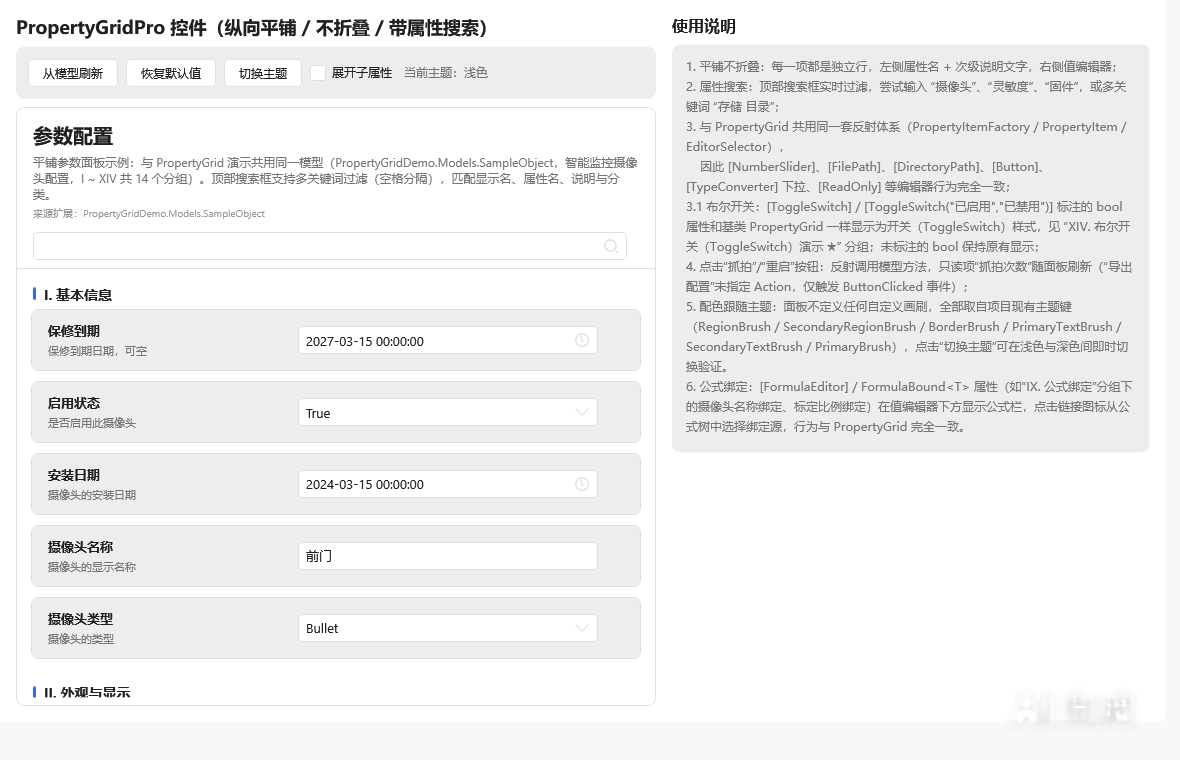
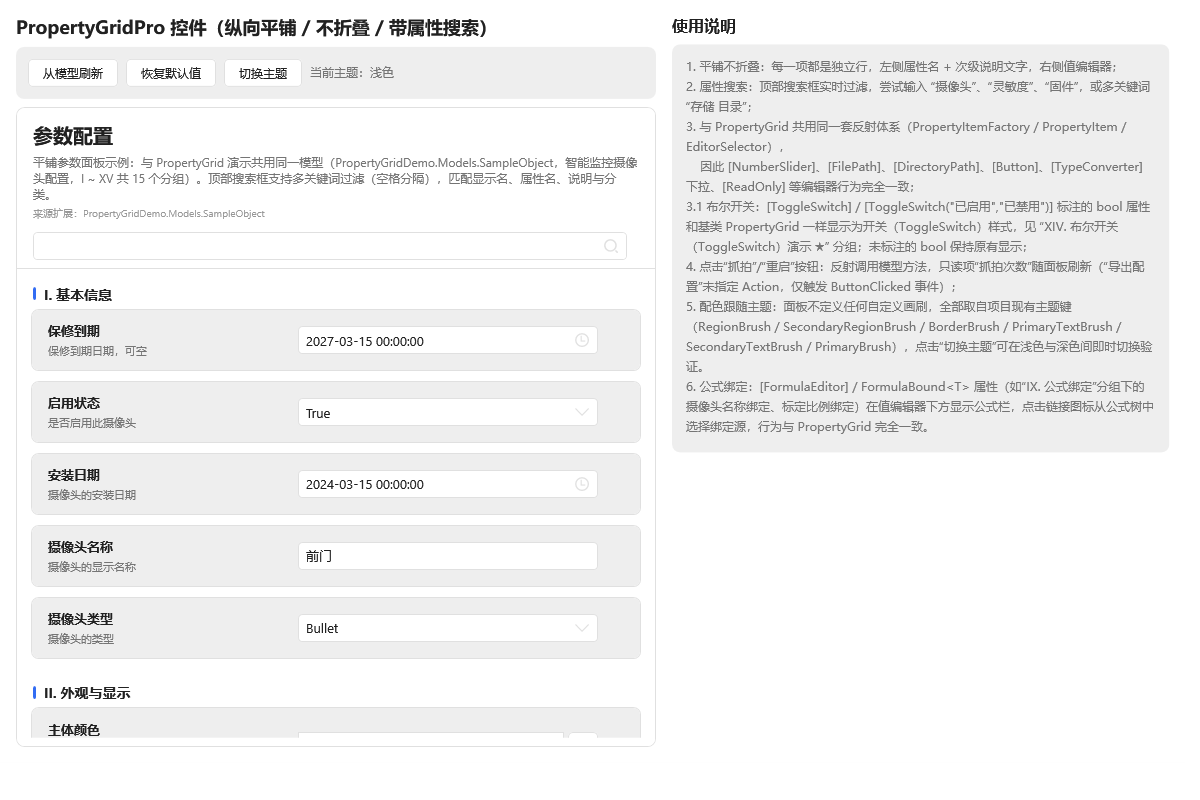
docs(images): 用 RenderTargetBitmap 离屏重渲文档配图(去水印), 新增 --shots 截图模式

diff --git a/App.xaml b/App.xaml
@@ -3,8 +3,7 @@
              xmlns:x="http://schemas.microsoft.com/winfx/2006/xaml"
              xmlns:hc="https://handyorg.github.io/handycontrol"
              xmlns:local="clr-namespace:PropertyGridDemo.Models"
-             xmlns:conv="clr-namespace:PropertyGridLib.Converters;assembly=PropertyGridLib"
-             StartupUri="MainWindow.xaml">
+             xmlns:conv="clr-namespace:PropertyGridLib.Converters;assembly=PropertyGridLib">
     <Application.Resources>
         <ResourceDictionary>
             <ResourceDictionary.MergedDictionaries>

diff --git a/ShotService.cs b/ShotService.cs
@@ -1,0 +1,283 @@
+using System;
+using System.ComponentModel;
+using System.IO;
+using System.Windows;
+using System.Windows.Media;
+using System.Windows.Media.Imaging;
+using System.Windows.Threading;
+using HandyControl.Data;
+using PropertyGridLib;
+using PropertyGridLib.Controls;
+using PropertyGridDemo.Models;
+
+namespace PropertyGridDemo
+{
+    /// <summary>
+    /// 离屏截图工具：以命令行 --shots &lt;目录&gt; 触发，用 RenderTargetBitmap 把真实控件渲染成 PNG，
+    /// 生成文档配图（零水印、可控尺寸、明暗主题）。仅 Demo 侧使用，不参与发布包。
+    /// </summary>
+    public static class ShotService
+    {
+        private static string _dir;
+
+        public static void Run(string outDir)
+        {
+            _dir = outDir;
+            Directory.CreateDirectory(outDir);
+            // 截图期间逐个 Show/Close 窗口，避免默认 OnLastWindowClose 触发应用关闭
+            Application.Current.ShutdownMode = ShutdownMode.OnExplicitShutdown;
+            var dispatcher = Application.Current.Dispatcher;
+
+            // ===== 浅色 =====
+            ThemeHelper.Apply(SkinType.Default);
+
+            TryShot("propertygrid-main-light", () =>
+            {
+                var w = NewMainWindow();
+                {
+                    Show(w, 1240, 820);
+                    Save(w, "propertygrid-main-light");
+                    w.Close();
+                }
+            });
+
+            TryShot("pro-overview-light", () =>
+            {
+                var w = NewProWindow();
+                {
+                    Show(w, 1200, 800);
+                    Save(w, "pro-overview-light");
+                    w.Close();
+                }
+            });
+
+            TryShot("pro-card-layout-detail", () =>
+            {
+                var w = NewProWindow();
+                {
+                    Show(w, 1200, 800);
+                    var g = Find(w, "proGrid");
+                    if (g != null) SaveElementCrop(g, 0, 192, 0, 400, "pro-card-layout-detail");
+                    w.Close();
+                }
+            });
+
+            TryShot("toggle-switch-area-light", () =>
+            {
+                var w = NewProWindow();
+                {
+                    Show(w, 1200, 800);
+                    var g = Find(w, "proGrid");
+                    if (g != null)
+                    {
+                        g.SearchText = "开关";
+                        w.UpdateLayout();
+                        dispatcher.Invoke(() => { }, DispatcherPriority.Render);
+                        SaveElementCrop(g, 0, 192, 0, 400, "toggle-switch-area-light");
+                    }
+                    w.Close();
+                }
+            });
+
+            TryShot("pro-search-multi-light", () =>
+            {
+                var w = NewProWindow();
+                {
+                    Show(w, 1200, 800);
+                    var g = Find(w, "proGrid");
+                    if (g != null)
+                    {
+                        g.SearchText = "摄像";
+                        w.UpdateLayout();
+                        dispatcher.Invoke(() => { }, DispatcherPriority.Render);
+                        SaveElementCrop(g, 0, 192, 0, 400, "pro-search-multi-light");
+                    }
+                    w.Close();
+                }
+            });
+
+            TryShot("pro-nested-4level-light", () =>
+            {
+                var w = NewProWindow();
+                {
+                    Show(w, 1200, 800);
+                    var g = Find(w, "proGrid");
+                    if (g != null)
+                    {
+                        g.HeaderDescription = "4 层嵌套子属性示例：展开后逐级缩进";
+                        g.SourceText = "来源扩展：NestZone";
+                        g.SelectedObject = new NestZone();
+                        g.SetSubPropertiesExpanded(true);
+                        w.UpdateLayout();
+                        dispatcher.Invoke(() => { }, DispatcherPriority.Render);
+                        SaveElementCrop(g, 0, 192, 0, 540, "pro-nested-4level-light");
+                    }
+                    w.Close();
+                }
+            });
+
+            TryShot("reset-button-base-light", () =>
+            {
+                var w = NewMainWindow();
+                {
+                    Show(w, 1240, 820);
+                    var grid = LogicalTreeHelper.FindLogicalNode(w, "propertyGrid") as PropertyGrid;
+                    if (grid != null)
+                    {
+                        ModifyOne(grid, "启用状态", false);
+                        ModifyOne(grid, "摄像头名称", "后堂");
+                        w.UpdateLayout();
+                        dispatcher.Invoke(() => { }, DispatcherPriority.Render);
+                        SaveElementCrop(grid, 0, 140, 0, 460, "reset-button-base-light");
+                    }
+                    w.Close();
+                }
+            });
+
+            // ===== 深色 =====
+            ThemeHelper.Apply(SkinType.Dark);
+
+            TryShot("propertygrid-main-dark", () =>
+            {
+                var w = NewMainWindow();
+                { Show(w, 1240, 820); Save(w, "propertygrid-main-dark"); w.Close(); }
+            });
+
+            TryShot("pro-overview-dark", () =>
+            {
+                var w = NewProWindow();
+                { Show(w, 1200, 800); Save(w, "pro-overview-dark"); w.Close(); }
+            });
+
+            ThemeHelper.Apply(SkinType.Default);
+            Log("SHOT_DONE");
+        }
+
+        // ---------- 窗体构造 ----------
+        private static MainWindow NewMainWindow()
+        {
+            var w = new MainWindow();
+            w.WindowState = WindowState.Normal;
+            return w;
+        }
+
+        private static PropertyGridProDemoWindow NewProWindow()
+        {
+            return new PropertyGridProDemoWindow();
+        }
+
+        private static PropertyGridPro Find(Window w, string name)
+        {
+            return LogicalTreeHelper.FindLogicalNode(w, name) as PropertyGridPro;
+        }
+
+        // 把指定显示名的属性改为非初始值，使行内“R”重置按钮常显
+        private static void ModifyOne(PropertyGrid grid, string displayName, object newVal)
+        {
+            if (!(grid.GroupedCategories is System.Collections.Generic.IEnumerable<PropertyCategory> cats)) return;
+            foreach (var c in cats)
+                foreach (var it in c.Items)
+                    if (it is PropertyItem pi && pi.DisplayName == displayName)
+                    {
+                        try { pi.Value = newVal; } catch { }
+                        return;
+                    }
+        }
+
+        // ---------- 显示并等待渲染 ----------
+        private static void Show(Window w, double width, double height)
+        {
+            w.WindowStartupLocation = WindowStartupLocation.Manual;
+            w.Left = -10000; w.Top = -10000;
+            w.Width = width; w.Height = height;
+            w.ResizeMode = ResizeMode.NoResize;
+            w.ShowInTaskbar = false;
+            w.ShowActivated = false;
+            w.AllowsTransparency = false;
+            w.Show();
+            var d = w.Dispatcher;
+            d.Invoke(() => w.UpdateLayout(), DispatcherPriority.Loaded);
+            d.Invoke(() => { }, DispatcherPriority.Render);
+            d.Invoke(() => { }, DispatcherPriority.ContextIdle);
+        }
+
+        // ---------- 渲染保存 ----------
+        private static void Save(Visual v, string name)
+        {
+            var fe = v as FrameworkElement;
+            int w = (int)Math.Ceiling(fe.ActualWidth > 0 ? fe.ActualWidth : fe.Width);
+            int h = (int)Math.Ceiling(fe.ActualHeight > 0 ? fe.ActualHeight : fe.Height);
+            if (w <= 0 || h <= 0) { Log(name + ": size 0"); return; }
+            RenderTo(v, w, h, name);
+        }
+
+        // 按控件自然尺寸渲染，再裁剪 (x,y,w,h) 区域（w/h 传 0 表示到边界）
+        private static void SaveElementCrop(FrameworkElement el, int x, int y, int w, int h, string name)
+        {
+            el.UpdateLayout();
+            Application.Current.Dispatcher.Invoke(() => { }, DispatcherPriority.Render);
+            int aw = (int)Math.Ceiling(el.ActualWidth);
+            int ah = (int)Math.Ceiling(el.ActualHeight);
+            if (aw <= 0 || ah <= 0) { Log(name + ": el size 0"); return; }
+            var full = new RenderTargetBitmap(aw, ah, 96, 96, PixelFormats.Pbgra32);
+            full.Render(el);
+            int cw = w > 0 ? Math.Min(w, aw - x) : aw - x;
+            int ch = h > 0 ? Math.Min(h, ah - y) : ah - y;
+            BitmapSource outImg = new CroppedBitmap(full, new Int32Rect(x, y, cw, ch));
+            var enc = new PngBitmapEncoder();
+            enc.Frames.Add(BitmapFrame.Create(outImg));
+            var path = Path.Combine(_dir, name + ".png");
+            using (var fs = File.Create(path)) enc.Save(fs);
+            Log(name + " -> " + cw + "x" + ch);
+        }
+
+        private static void RenderTo(Visual v, int w, int h, string name)
+        {
+            var rtb = new RenderTargetBitmap(w, h, 96, 96, PixelFormats.Pbgra32);
+            rtb.Render(v);
+            var enc = new PngBitmapEncoder();
+            enc.Frames.Add(BitmapFrame.Create(rtb));
+            var path = Path.Combine(_dir, name + ".png");
+            using (var fs = File.Create(path)) enc.Save(fs);
+            Log(name + " -> " + w + "x" + h);
+        }
+
+        private static void TryShot(string name, Action a)
+        {
+            try { a(); }
+            catch (Exception ex) { Log("FAIL " + name + ": " + ex.Message); }
+        }
+
+        private static void Log(string s)
+        {
+            try { Console.WriteLine("[shots] " + s); } catch { }
+            try { File.AppendAllText(Path.Combine(_dir, "_shots.log"), s + Environment.NewLine); } catch { }
+        }
+    }
+
+    // ===== 文档配图专用：4 层嵌套子属性模型 =====
+    public class NestZone
+    {
+        [Category("检测区域")][DisplayName("区域名称")] public string Name { get; set; } = "主区域";
+        [Category("检测区域")][DisplayName("灵敏度")][DefaultValue(5)] public int Sensitivity { get; set; } = 7;
+        [Category("检测区域")][DisplayName("子区域")] public NestSub Sub { get; set; } = new NestSub();
+    }
+    public class NestSub
+    {
+        [Category("检测区域")][DisplayName("子区域名称")] public string Name { get; set; } = "入口通道";
+        [Category("检测区域")][DisplayName("通道")] public NestSub2 Ch { get; set; } = new NestSub2();
+        public override string ToString() => Name;
+    }
+    public class NestSub2
+    {
+        [Category("检测区域")][DisplayName("通道号")] public int Id { get; set; } = 1;
+        [Category("检测区域")][DisplayName("图像参数")] public NestSub3 P { get; set; } = new NestSub3();
+        public override string ToString() => $"通道 {Id}";
+    }
+    public class NestSub3
+    {
+        [Category("检测区域")][DisplayName("曝光")][DefaultValue(0.5)] public double Exposure { get; set; } = 0.5;
+        [Category("检测区域")][DisplayName("增益")][DefaultValue(1.0)] public double Gain { get; set; } = 1.2;
+        public override string ToString() => "图像参数";
+    }
+}

diff --git a/App.xaml.cs b/App.xaml.cs
@@ -14,6 +14,22 @@ namespace PropertyGridDemo
         public static readonly ConditionalWeakTable<PropertyItem, string> UnitStateTable =
             new ConditionalWeakTable<PropertyItem, string>();
 
+        protected override void OnStartup(StartupEventArgs e)
+        {
+            base.OnStartup(e);
+
+            // 离屏截图模式：--shots <输出目录>  —— 生成文档配图后退出，不启动交互窗体
+            int idx = Array.IndexOf(e.Args, "--shots");
+            if (idx >= 0 && idx + 1 < e.Args.Length)
+            {
+                ShotService.Run(e.Args[idx + 1]);
+                Shutdown();
+                return;
+            }
+
+            new MainWindow().Show();
+        }
+
         private void UnitCombo_Loaded(object sender, RoutedEventArgs e)
         {
             if (sender is not ComboBox combo || combo.DataContext is not PropertyItem pi) return;
